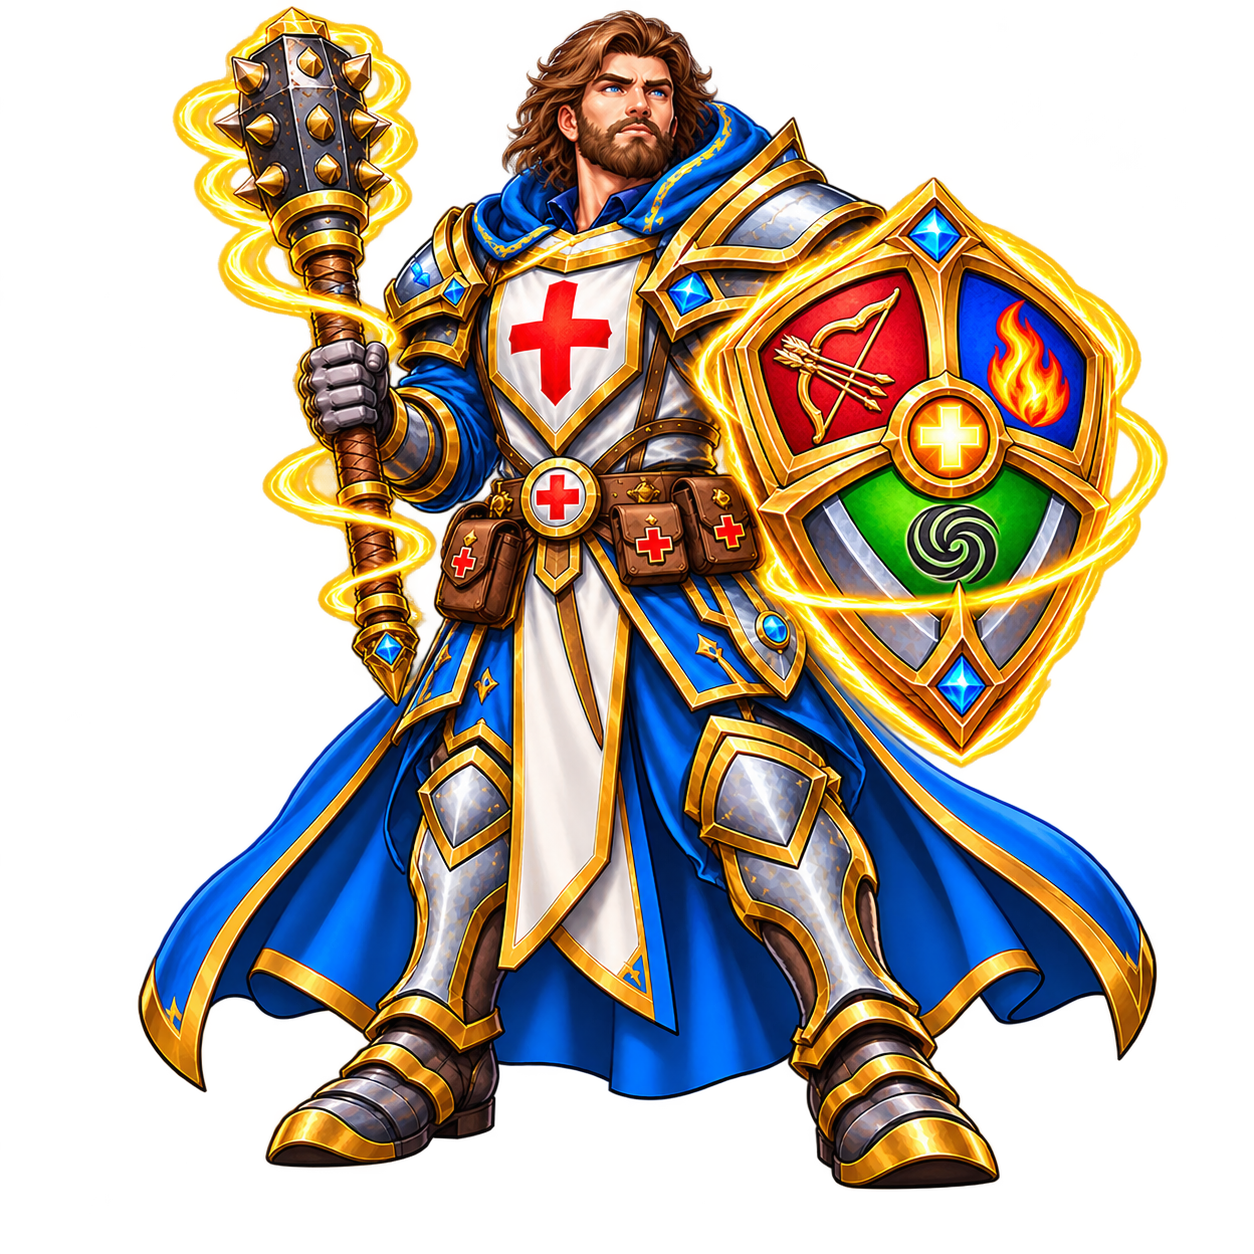
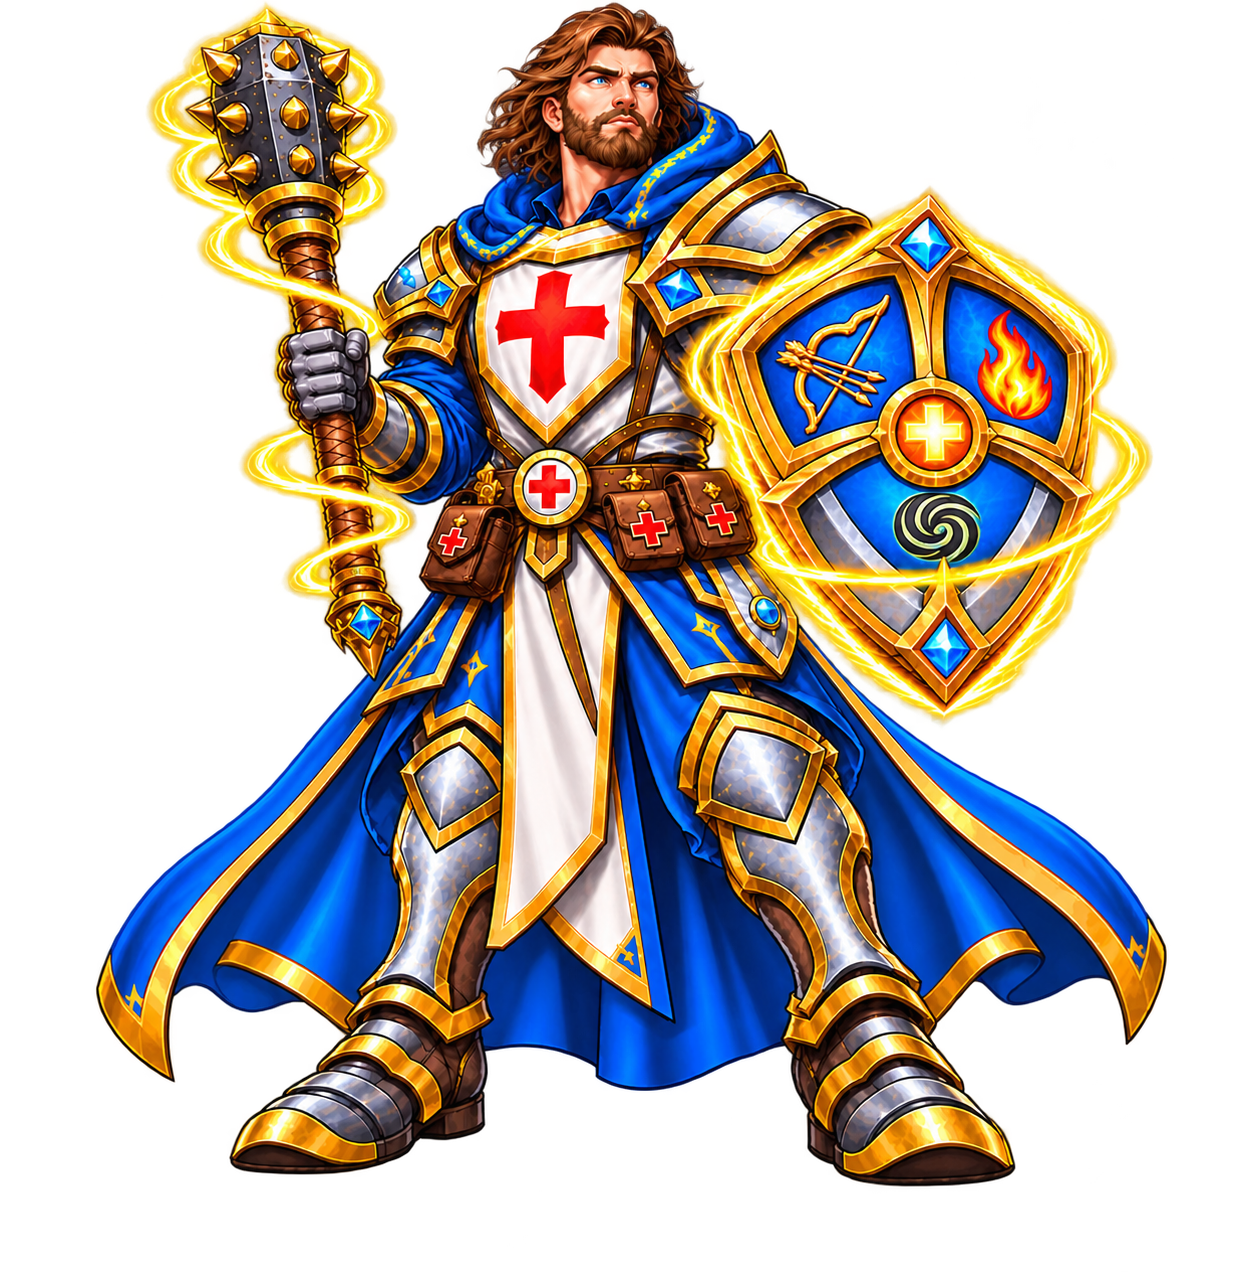
update tri-shield healer, add nimble ranger

diff --git a/public/investor/characters.md b/public/investor/characters.md
@@ -110,7 +110,7 @@ Concept: A shrewd counselor who plans the king's attacks and advises his campaig
 
 5. The Tax-Breaker Berserker (Traditional IRA)
 
-Concept: A fierce frontline fighter who gives you an immediate burst of strength today, though they demand a heavy price when the campaign finally comes to an end.
+Concept: A fierce frontline fighter who quickly destroys enemy fighters at the start of battle, but lacks endurance and sustains heavy injuries as the battle progresses.
 • Superpower: Immediate Battle Cry
 	• Recruiting this warrior instantly shields your current year's gold from tax collectors, giving you more resources to fight with right now.
 • Special Skills:
